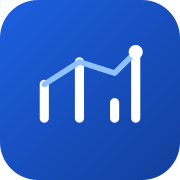
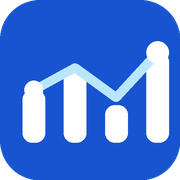
style(marca): redesenha icones flat, sem gradiente, cor primary
Favicon/PWA icons, apple-touch-icon, LogoBadgeComponent e o logo
grande usavam gradiente sky/indigo/violet. Trocado por preenchimento
solido #1754CF (mesmo primary do Tailwind), mantendo o mesmo grafico
de barras branco.

Claude-Session: https://claude.ai/code/session_01K5RS8Cq7ZDWqfBpSkXg8ci

diff --git a/src/app/shared/components/logo-badge/logo-badge.component.ts b/src/app/shared/components/logo-badge/logo-badge.component.ts
@@ -4,7 +4,7 @@ import { Component, input } from '@angular/core';
   selector: 'app-logo-badge',
   standalone: true,
   template: `
-    <div class="rounded-lg bg-gradient-to-br from-sky-500 via-indigo-500 to-violet-500 flex items-center justify-center shrink-0"
+    <div class="rounded-lg bg-primary flex items-center justify-center shrink-0"
          [class.size-8]="tamanho() === 'sm'" [class.size-9]="tamanho() === 'md'"
          [class.shadow-md]="comSombra()">
       <img src="/logo/albatroz-icon.svg" alt="Albatroz" class="size-5" />
